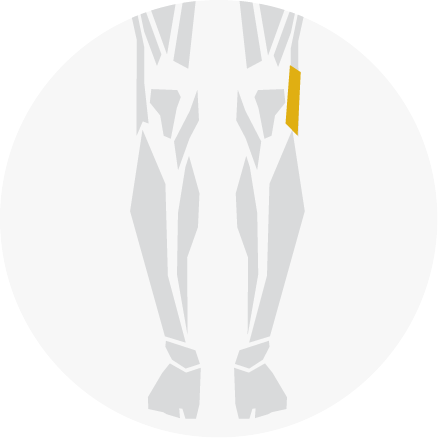
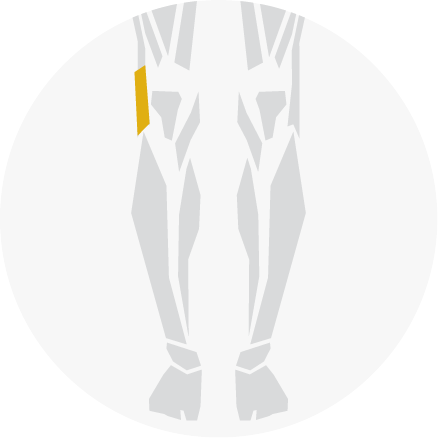
bug fixes

diff --git a/src/components/myPlan/pages/BodyPartSelector.js b/src/components/myPlan/pages/BodyPartSelector.js
@@ -66,6 +66,7 @@ class BodyPartSelector extends Component {
                 height: 0,
                 width:  0,
             },
+            isClickLocked:       false,
             isModalOpen:         false,
             selectedBodyPartObj: {},
         };
@@ -226,7 +227,7 @@ class BodyPartSelector extends Component {
             foundSelectedBodyPartInReducer.sharp && foundSelectedBodyPartInReducer.sharp > 0 ||
             foundSelectedBodyPartInReducer.tight && foundSelectedBodyPartInReducer.tight > 0;
         this.setState(
-            { isModalOpen: false, selectedBodyPartObj: {}, },
+            { isClickLocked: false, isModalOpen: false, selectedBodyPartObj: {}, },
             () => foundSelectedBodyPartInReducer && !hasSeverity ?
                 handleBodyPartClick(selectedBodyPart, foundSelectedBodyPartInReducer.side)
                 :
@@ -316,7 +317,7 @@ class BodyPartSelector extends Component {
 
     render = () => {
         const { areaOfSorenessClicked, handleFormChange, isBodyOverlayFront, } = this.props;
-        const { front, isModalOpen, selectedBodyPartObj, } = this.state;
+        const { front, isClickLocked, isModalOpen, selectedBodyPartObj, } = this.state;
         let {
             backAnimatedStyle,
             backBodyParts,
@@ -402,8 +403,8 @@ class BodyPartSelector extends Component {
                         {_.map(gridRange, key => (
                             <TouchableOpacity
                                 key={key}
-                                onLongPress={() => this._handleGridLongPress(key)}
-                                onPress={() => this._handleGridPress(key)}
+                                onLongPress={isClickLocked ? () => null : () => this.setState({ isClickLocked: true, }, () => this._handleGridLongPress(key))}
+                                onPress={isClickLocked ? () => null : () => this.setState({ isClickLocked: true, }, () => this._handleGridPress(key))}
                                 style={{
                                     height: _.round(front.height / NUMBER_OF_OVERLAY_GRIDS_HEIGHT),
                                     width:  _.round(front.width / NUMBER_OF_OVERLAY_GRIDS_WIDTH),

diff --git a/src/lib/planLogic.js b/src/lib/planLogic.js
@@ -2838,8 +2838,6 @@ const PlanLogic = {
             { cleanedKey: 19, index: [215, 216, 217, 235, 236, 237], isFront: false, side: 2, },
             { cleanedKey: 20, index: [277, 278, 279, 297, 298, 299], isFront: true, side: 1, },
             { cleanedKey: 20, index: [262, 263, 264, 282, 283, 284], isFront: true, side: 2, },
-            { cleanedKey: 20, index: [277, 278, 279, 297, 298, 299], isFront: false, side: 1, },
-            { cleanedKey: 20, index: [262, 263, 264, 282, 283, 284], isFront: false, side: 2, },
             { cleanedKey: 21, index: [147, 148, 149, 167, 168, 169, 170, 187, 188, 189, 190, 208, 209], isFront: false, side: 1, },
             { cleanedKey: 21, index: [152, 153, 154, 171, 172, 173, 174, 191, 192, 193, 194, 212, 213], isFront: false, side: 2, },
             { cleanedKey: 22, index: [155, 156, 156, 175, 176, 177, 195, 196, 197], isFront: true, side: 1, },

diff --git a/src/components/myPlan/MyPlan.js b/src/components/myPlan/MyPlan.js
@@ -640,7 +640,7 @@ class MyPlan extends Component {
         );
         if(nextAppState === 'active' && notification) {
             this._handleEnteringApp(() => this._handlePushNotification(this.props));
-        } else if(nextAppState === 'active' && (!lastOpened.date || clearMyPlan)) {
+        } else if(nextAppState === 'active' && (!lastOpened.date || !moment().isSame(lastOpened.date, 'day') || clearMyPlan)) {
             Actions.reset('key1');
         } else if(
             nextAppState === 'active' &&
